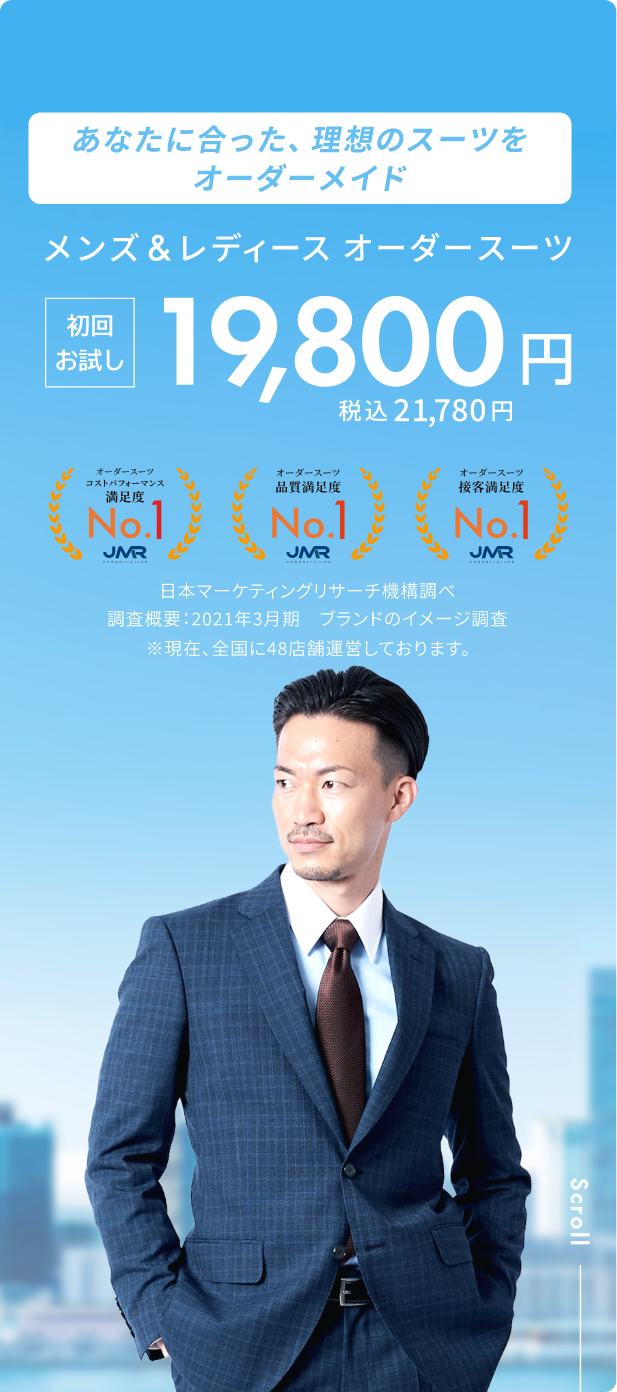
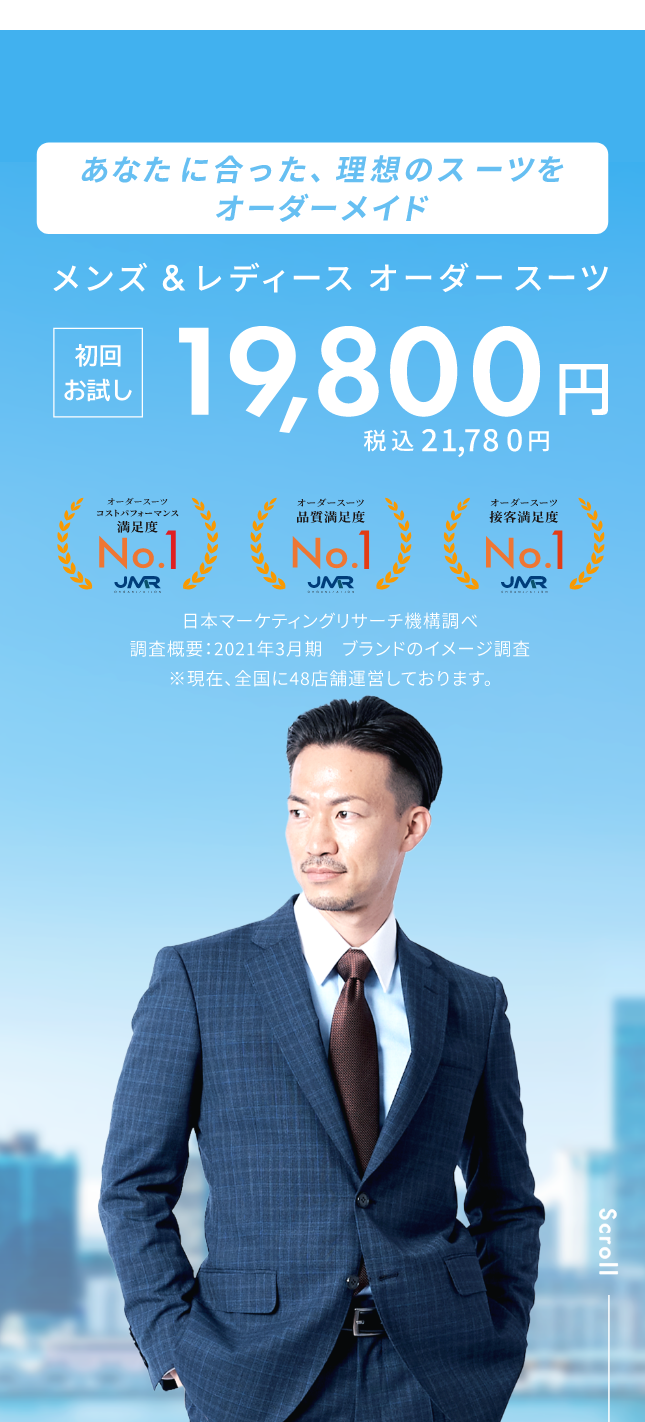
微修正

diff --git a/style.css b/style.css
@@ -5,6 +5,9 @@
     letter-spacing: 3px;
     font-family: 'Noto Sans JP', sans-serif;
 }
+body{
+    overflow-x:hidden ;
+}
 /* fv-area */
 .fv-area {
     position: relative;
@@ -72,6 +75,7 @@
     line-height: 2;
     font-size: 18px;
     font-weight: bold;
+    width: 50%;
 }
 .concept-img-2{
     position: absolute;
@@ -150,10 +154,24 @@
 /* price-area */
 .price-area{
     padding: 100px 30px;
+    background-image: url(./images/price-area-bg-img.png);
+    background-position: left center;
+    background-repeat: repeat-x;
+    background-size: auto; /* 必要に応じてサイズを調整してください */
+    animation: slide 20s linear infinite; /* 20秒ごとに画像を横に流れるアニメーション */
+}
+
+@keyframes slide {
+    0% {
+        background-position: 0% center;
+    }
+    100% {
+        background-position: 100% center;
+    }
 }
 .price-area > div{
     text-align: center;
-    font-size: 24px;
+    font-size: 32px;
     font-weight: bold;
 }
 .price-area > div span{
@@ -181,7 +199,7 @@
     background-size: cover;
     padding: 80px 0 500px;
     color: #fff;
-    font-size: 28px;
+    font-size: 48px;
 }
 .reason-area h2 span{
     display: block;
@@ -214,12 +232,12 @@
 }
 .reason-area .flex > div > .title{
     text-align: center;
-    margin: 15px 0 0;
+    margin: 20px 0 0;
     padding-bottom: 15px;
     font-size: 18px;
     color: #256FA7;
     font-weight: bold;
-    border-bottom: 1px solid #256FA7;
+    border-bottom: 2px solid #63A7DC;
 }
 .reason-area .flex > div > p{
     padding: 15px 0;
@@ -391,16 +409,23 @@
     margin-top: 70px;
     text-align: center;
 }
-.celebrity-area > .provider h3{
+.celebrity-area > .provider h3 {
     text-align: center;
     margin-bottom: 70px;
     position: relative;
     display: inline-block;
+    font-size: 18px;
 }
 
 
-.celebrity-area > .provider img{
+
+.celebrity-area > .provider .provider-img{
     display: block;
+    width: 60%;
+    margin: 0 auto;
+}
+.celebrity-area > .provider .provider-img-sp{
+    display: none;
     width: 60%;
     margin: 0 auto;
 }
@@ -409,11 +434,11 @@
     background: rgba(255, 255, 255, 0.5);
     text-align: center;
     padding: 35px;
-    position:sticky; /* 追加 */
-    bottom: 0;       /* 追加 */
-    left: 0;         /* ウィンドウの左端に寄せる場合 */
-    right: 0;        /* ウィンドウの右端に寄せる場合 */
-    z-index: 1000;   /* 必要に応じて他の要素より前に表示 */
+    position:sticky;
+    bottom: 0;
+    left: 0;
+    right: 0;
+    z-index: 1000;
 }
 
 .fixed-area a{
@@ -470,7 +495,8 @@ footer > small{
 }
 @media screen and (max-width:768px) {
     .fv-area .logo {
-        width: 25%;
+        width: 45%;
+        top: 0px;
     }
     .fv-area .fv-img{
         display: none;
@@ -493,10 +519,17 @@ footer > small{
         margin-left: 0;
         display: none;
     }
+    .concept-area .flex > div:nth-child(2) {
+        padding: 0 30px;
+    }
+    .concept-area .flex > div:nth-child(2) h2 {
+        width: 100%;
+    }
     .concept-area .flex > div:nth-child(2) p {
         line-height: 2;
         font-size: 16px;
         font-weight: bold;
+        width: 100%;
     }
     
     .concept-img-2 {
@@ -592,8 +625,13 @@ footer > small{
         width: 90%;
         margin: 0 auto;
     }
-    .celebrity-area > .provider img {
-        width: 75%;
+    .celebrity-area > .provider .provider-img{
+        display: none;
+    }
+    .celebrity-area > .provider .provider-img-sp{
+        display: block;
+        width: 80%;
+        margin: 0 auto;
     }
     .fixed-area{
         padding: 30px;
@@ -606,9 +644,6 @@ footer > small{
     }
 }
 @media screen and (max-width:430px){
-    .fv-area .logo {
-        width: 30%;
-    }
     .concept-area {
         padding: 30px 0px;
     }
@@ -622,14 +657,14 @@ footer > small{
         padding: 50px 15px;
     }
     .price-area > div {
-        font-size: 20px;
+        font-size: 26px;
     }
     .reason-area h2 span {
         width: 80%;
         margin: 0 auto 10px;
     }
     .reason-area .flex {
-        top: 8%;
+        top: 9%;
     }
     .reason-area .flex > div {
         margin: 0 0px 35px;

diff --git a/index.html b/index.html
@@ -34,15 +34,15 @@
                         理想が叶う自分だけのオーダースーツ
                     </h2>
                     <p>
-                        オーダーメイドならではの特別な魅力を詰め込んだ<br>
+                        オーダーメイドならではの特別な魅力を詰め込んだ
                         スーツを、あなたにお仕立てします。<br>
-                        自分らしい個性を最大限に引き出し、特別な一着を<br>
-                        手に入れませんか？豊富な生地とデザインから、<br>
+                        自分らしい個性を最大限に引き出し、特別な一着を
+                        手に入れませんか？豊富な生地とデザインから、
                         あなただけの一着をお選びいただけます。<br>
-                        オーダースーツSADAでは、お買い上げ後<br>
-                        1ヶ月以内であれば、無料にてお直しを承るので、<br>
+                        オーダースーツSADAでは、お買い上げ後
+                        1ヶ月以内であれば、無料にてお直しを承るので、
                         あなたの満足を大切にします。<br>
-                        スーツを着るたびに、自分を高める自信と満足感を<br>
+                        スーツを着るたびに、自分を高める自信と満足感を
                         感じ、オーダーメイドの魅力を体験してください。
                     </p>
                 </div>
@@ -190,6 +190,7 @@
             <div class="provider">
                 <h3>公式スーツ提供企業</h3>
                 <img src="./images/provider-img.png" class="provider-img" alt="provider-img">
+                <img src="./images/provider-img-sp.png" class="provider-img-sp" alt="provider-img">
             </div>
         </section>
         <section class="fixed-area">
